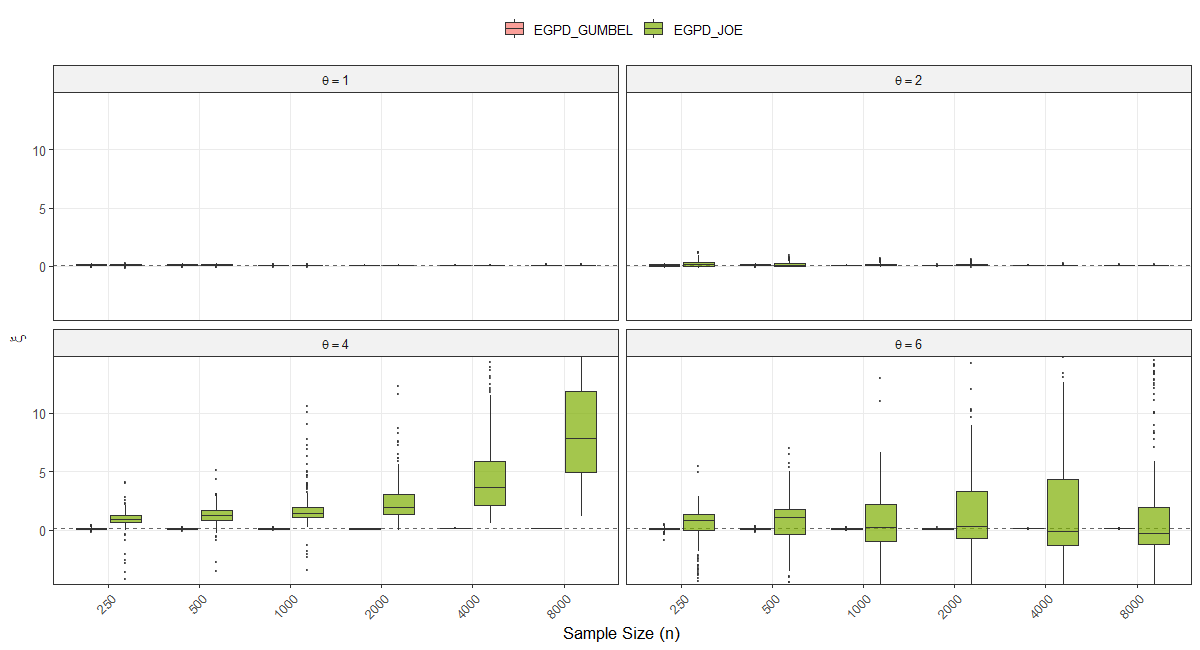
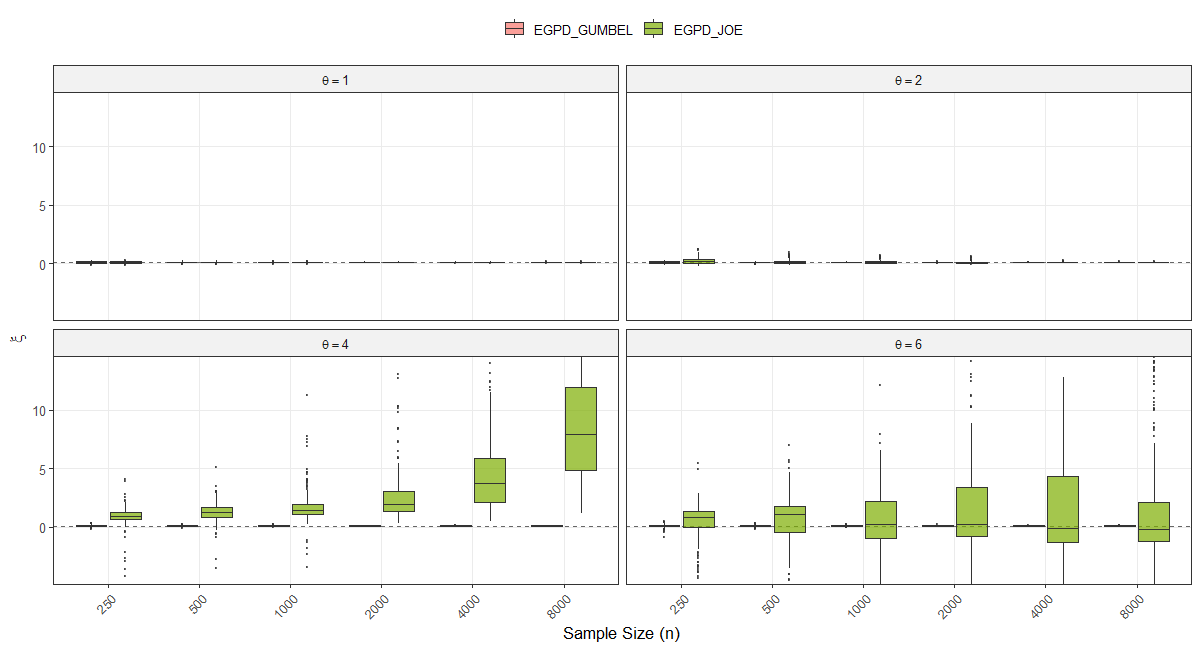
minor updates

diff --git a/slides/mtp_shbk.tex b/slides/mtp_shbk.tex
@@ -116,7 +116,7 @@
 	\]
 	then $G_\xi$ is a \alert{Generalized Extreme Value (GEV)} distribution. We say that $F$ is in the \textbf{maximum domain of attraction} (MDA) of $G_\xi$. \pause
 
-  The \textbf{shape parameter} $\xi$ (Extreme Value Index) defines the margin tail behavior:
+  The \textbf{Extreme Value Index} $\xi$ defines the margin tail behavior:
   
   \begin{itemize}
     \item \textbf{$\xi > 0$:} \textbf{Fréchet} (Heavy-tailed, e.g., Pareto, Cauchy)